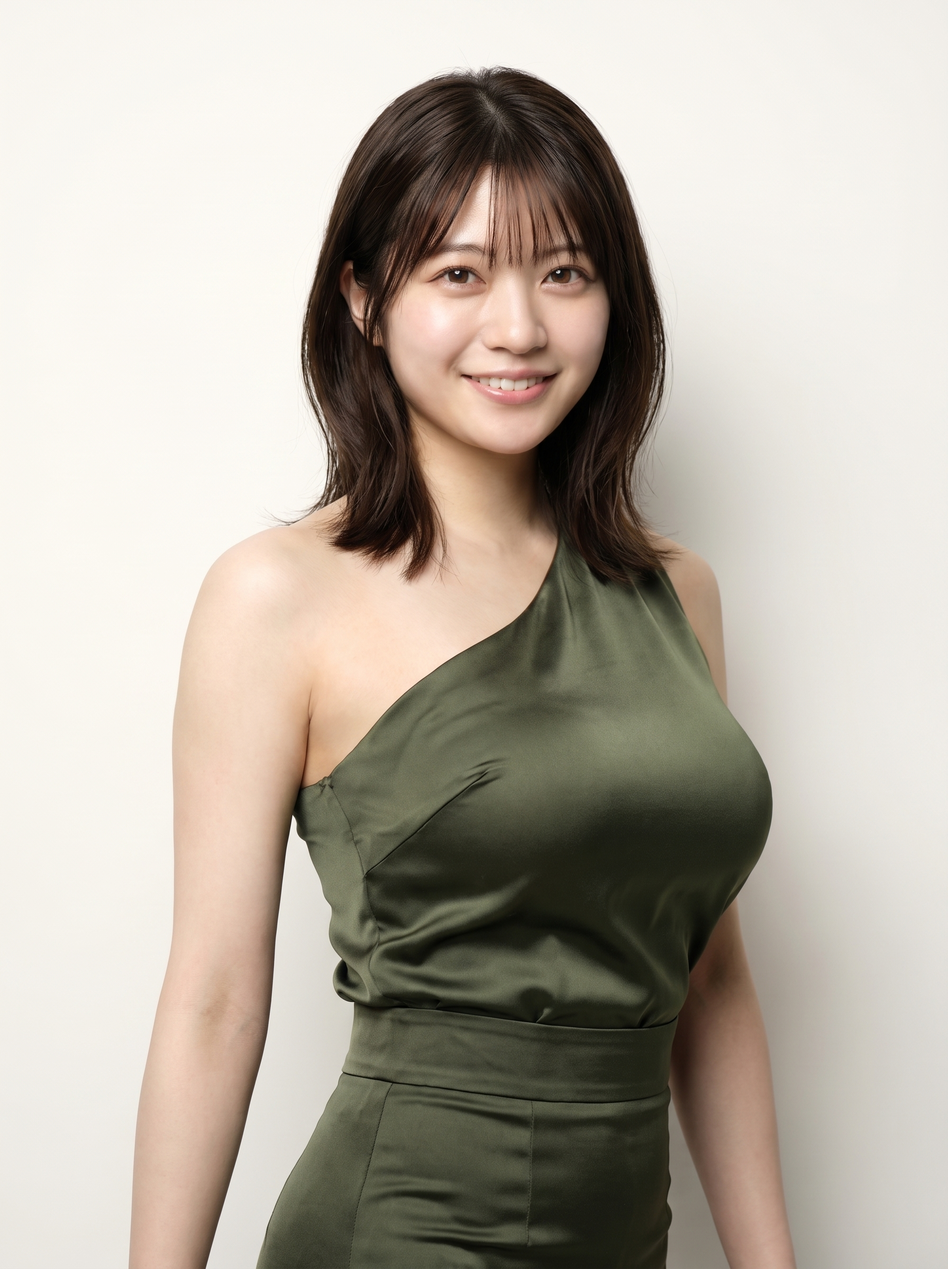
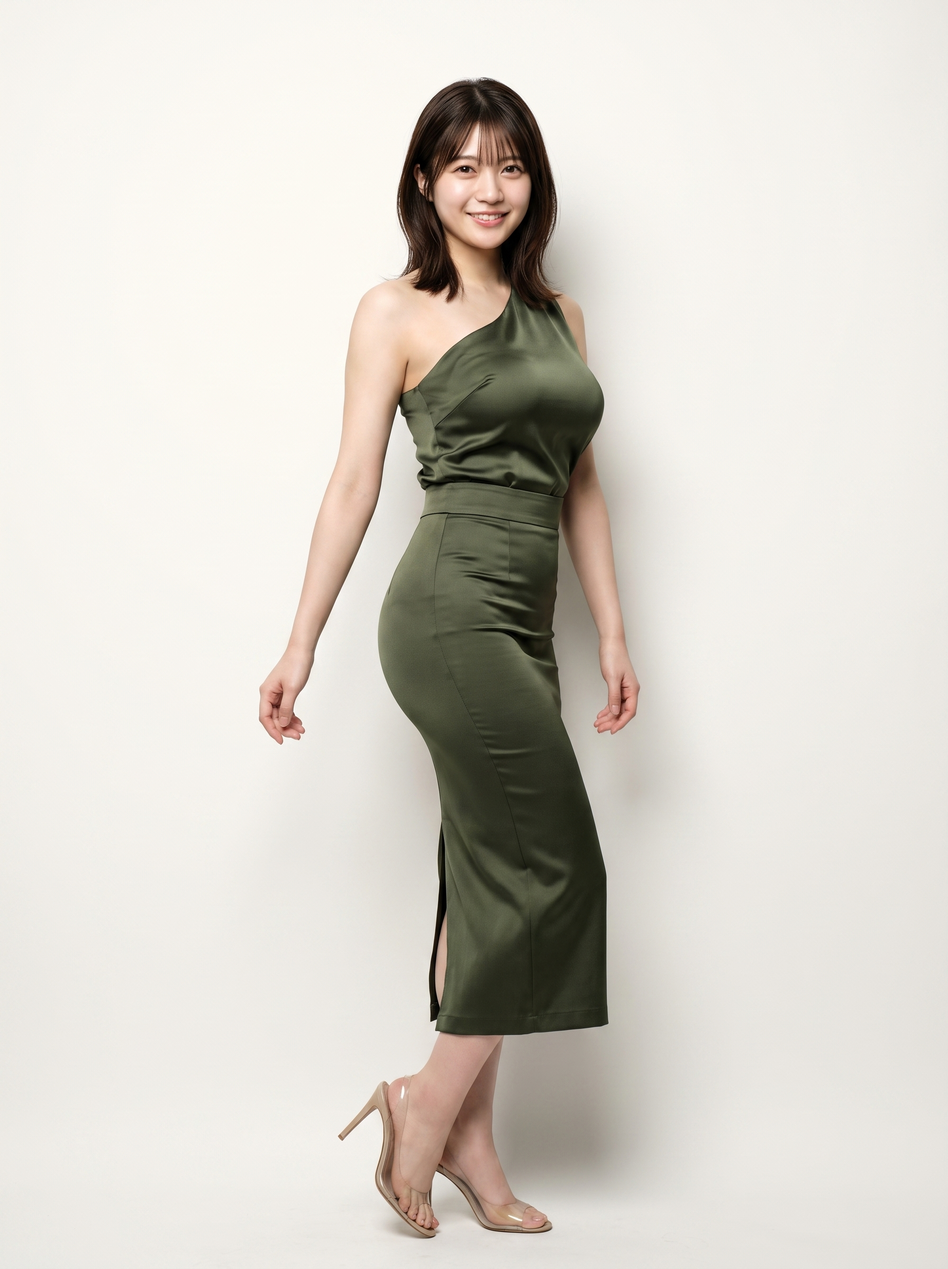
Auto-deploy: Update BOOTH link and sync repository

diff --git a/index.html b/index.html
@@ -131,7 +131,8 @@
           <a href="noa.html" class="card-click-overlay" aria-label="View Noa Profile"></a>
           
           <div class="model-img-wrapper">
-            <img src="assets/images/models/noa/main.jpg" alt="Noa Portrait" class="model-img">
+            <img src="assets/images/models/noa/main.jpg" alt="Noa Casual" class="model-img casual-img">
+            <img src="assets/images/models/noa/gallery/1.jpg" alt="Noa Cosplay" class="model-img cosplay-img">
           </div>
           <div class="model-info-overlay">
             <div class="model-header">

diff --git a/noa.html b/noa.html
@@ -461,6 +461,7 @@
           <div class="profile-sns-row">
             <a class="sns-circle-btn disabled" title="TikTok (準備中)"><i class="fab fa-tiktok"></i></a>
             <a class="sns-circle-btn disabled" title="Instagram (準備中)"><i class="fab fa-instagram"></i></a>
+            <a class="sns-circle-btn disabled" title="Threads (準備中)"><i class="fab fa-threads"></i></a>
           </div>
         </div>
         
